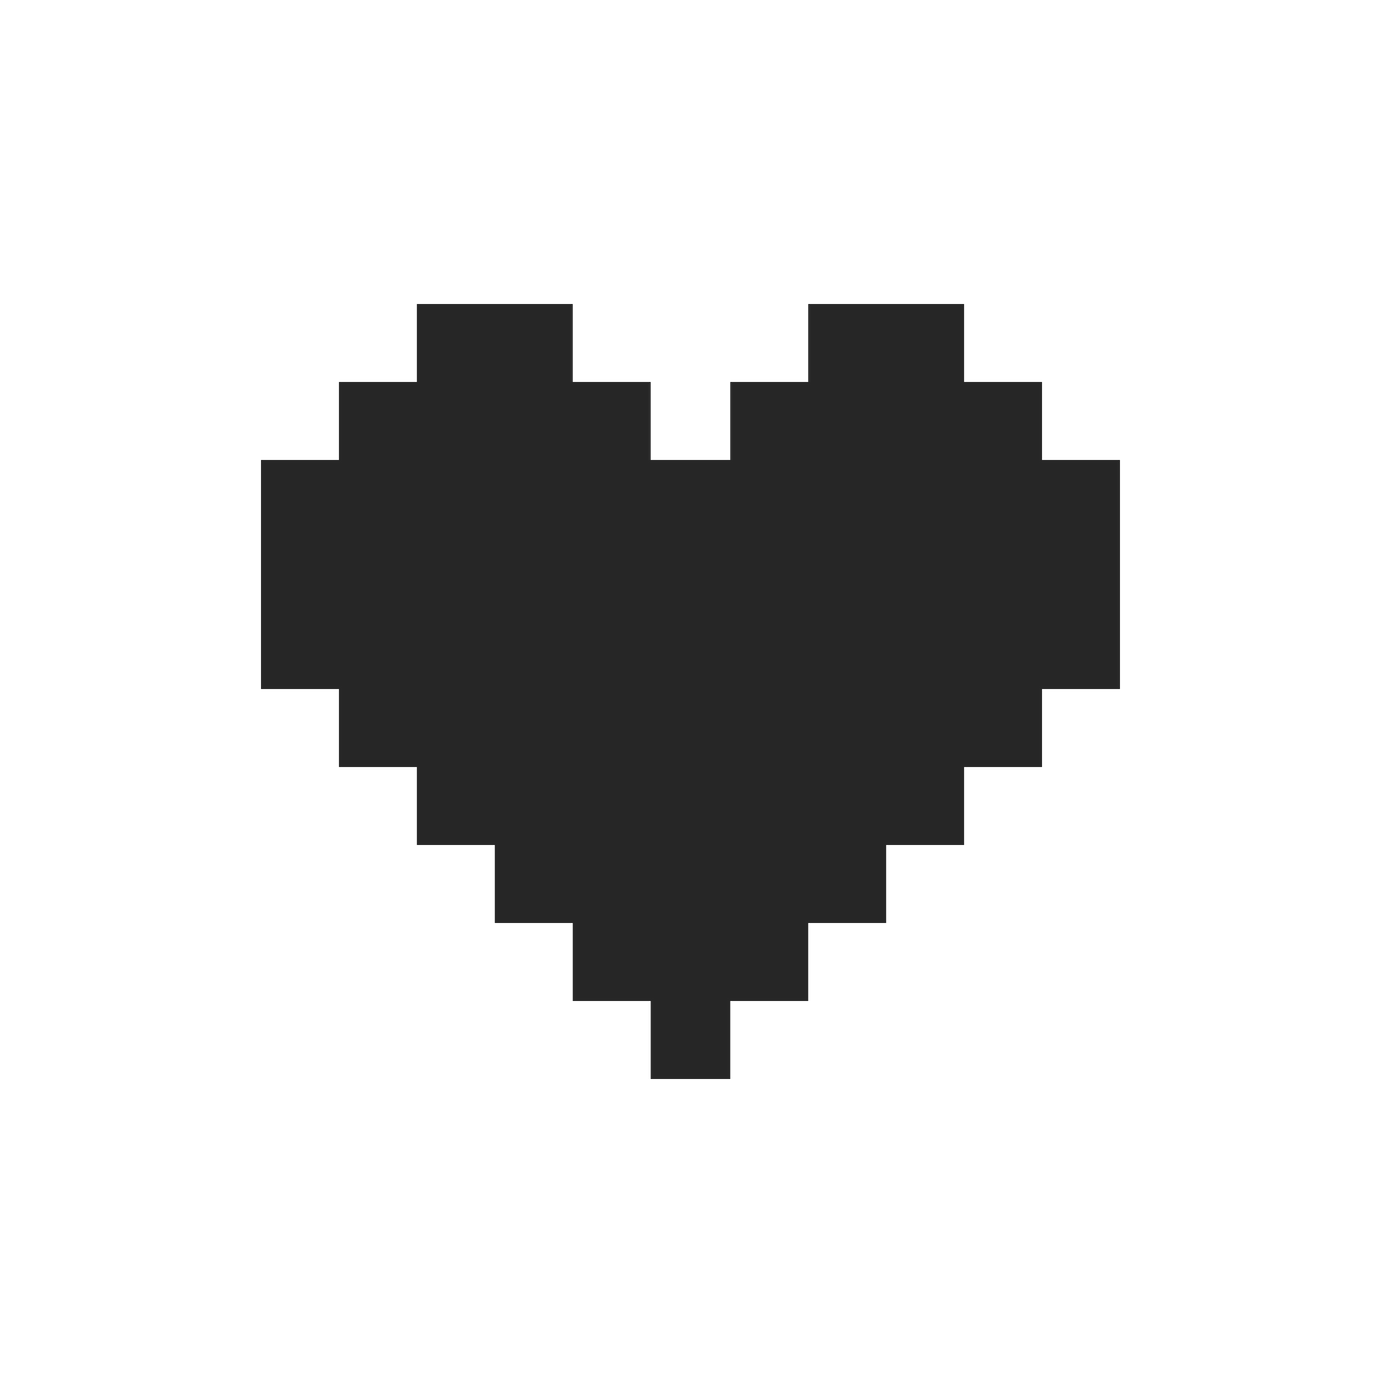
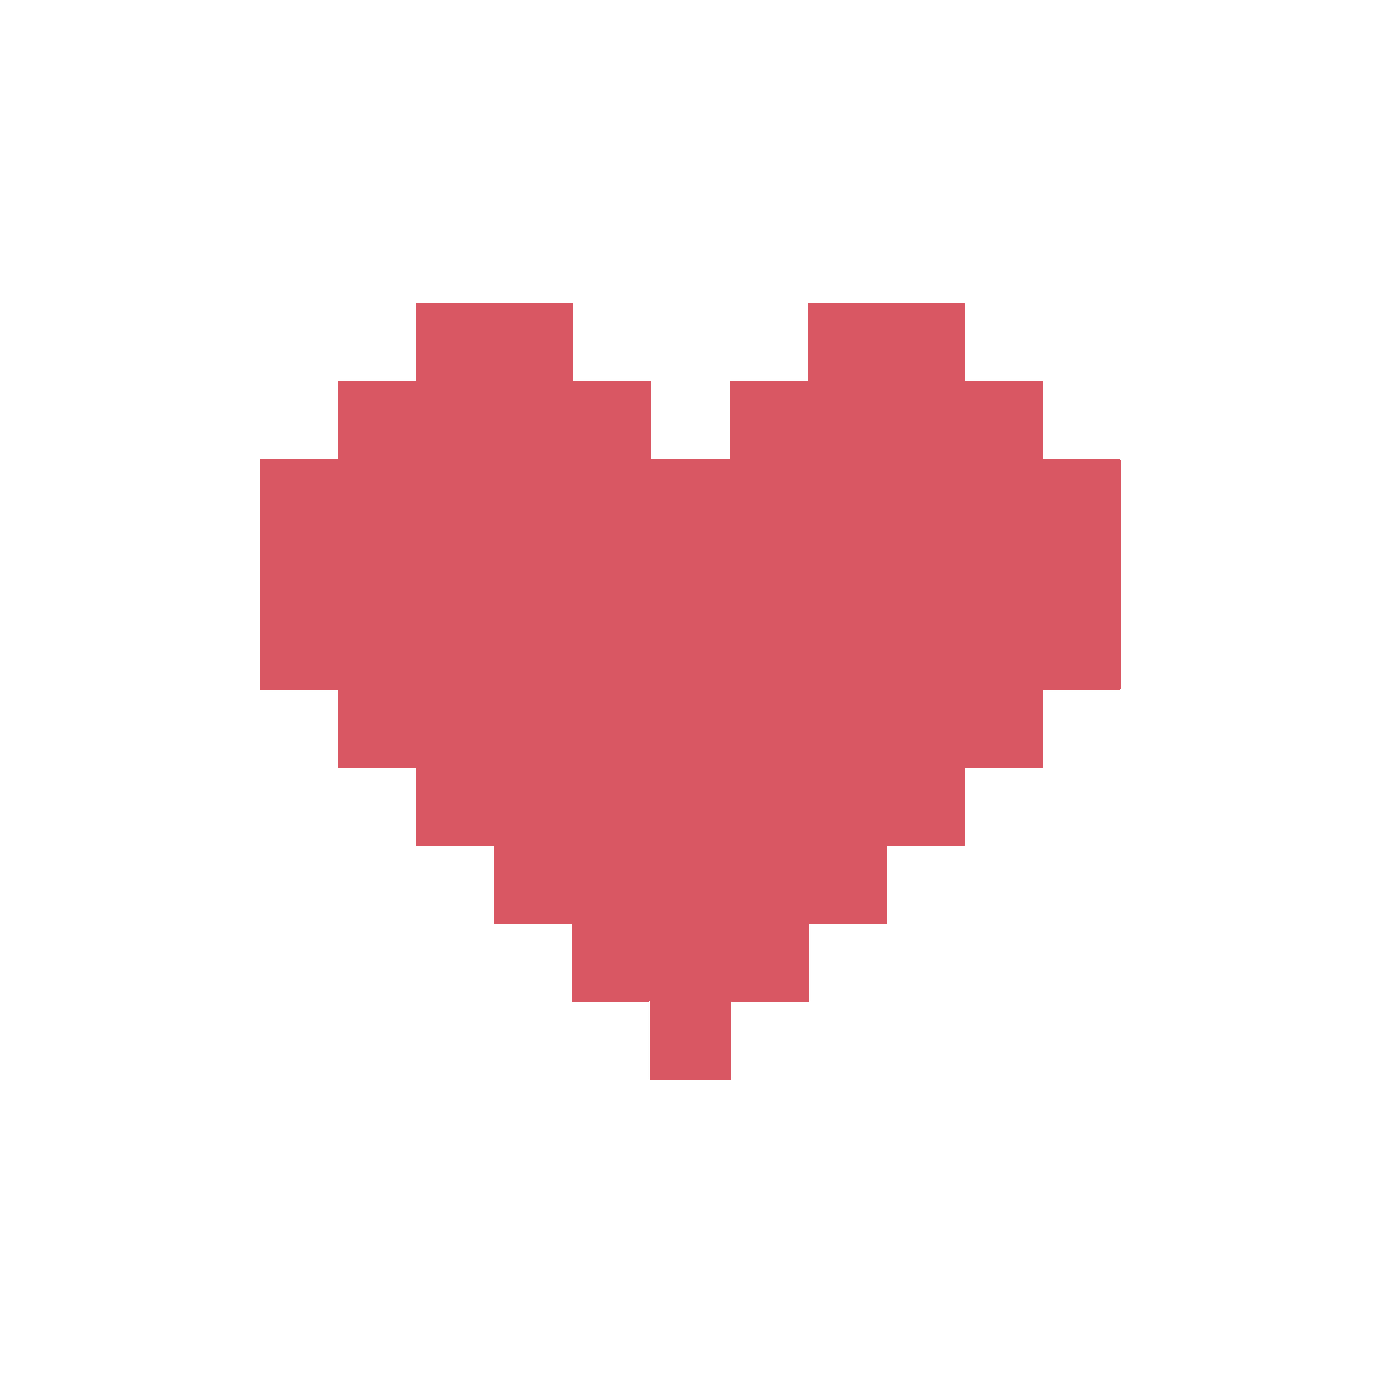
Make UI visible over vignette effect and match healing statue colours

Changed region(s): [[0.1843, 0.215, 0.7986, 0.7986]]

diff --git a/js/UI.js b/js/UI.js
@@ -14,14 +14,19 @@ function drawUI() {
 }
 
 function playerLife() {
-	var x = 10, y = 8, iconSize = 50;
+	var x = 10, y = 8, iconSize = 50, padding = 5;
 
 	var oldX = x;
-	for (var i = 0; i < Player.HP; i++) {
-		canvasContext.drawImage(playerLifeIcon, x,y, iconSize,iconSize);
+	for (var i = 0; i < Player.maxHP; i++) {
+		canvasContext.drawImage(playerLifeIconBackground, x,y, iconSize,iconSize);
 		x += iconSize;
 	}
-	var padding = 10;
+	x = oldX;
+	for (i = 0; i < Player.HP; i++) {
+		canvasContext.drawImage(playerLifeIcon, x+padding,y+padding, iconSize-padding*2,iconSize-padding*2);
+		x += iconSize;
+	}
+	padding = 10;
 	x = oldX + padding;
 	y += iconSize;
 	
@@ -45,7 +50,7 @@ function bossHealthBar(boss, bossNumber) {
 	y -= (height + 24) * bossNumber;
 	canvasContext.drawImage(bossHealthBarOutline, x,y, width, height);
 	
-	colorText(boss.name, x,y-4, 'black');
+	colorText(boss.name, x,y-4, "#d0d0d0");
 	
 	healthLeft = width-4;
 	healthLeft *= boss.HP / boss.maxHP;

diff --git a/js/ImageLoading.js b/js/ImageLoading.js
@@ -5,6 +5,7 @@ var evilPlayerSheet = document.createElement("img");
 var platform = document.createElement("img");
 var playerConcept = document.createElement("img");
 var playerLifeIcon = document.createElement("img");
+var playerLifeIconBackground = document.createElement("img");
 var floorTileset = document.createElement("img");
 var wallsTileset = document.createElement("img");
 var trailImage = document.createElement("img");
@@ -32,6 +33,7 @@ function loadImages() {
 		{varName: platform, fileName: "platform.png"},
 		{varName: playerConcept, fileName: "player.png"},
 		{varName: playerLifeIcon, fileName: "life_placeholder.png"},
+		{varName: playerLifeIconBackground, fileName: "life_placeholder_background.png"},
 		{varName: floorTileset, fileName: "floor_tiles.png"},
 		{varName: wallsTileset, fileName: "walls_tileset_v2.png"},
 		{varName: trailImage, fileName: "trail.png"},
